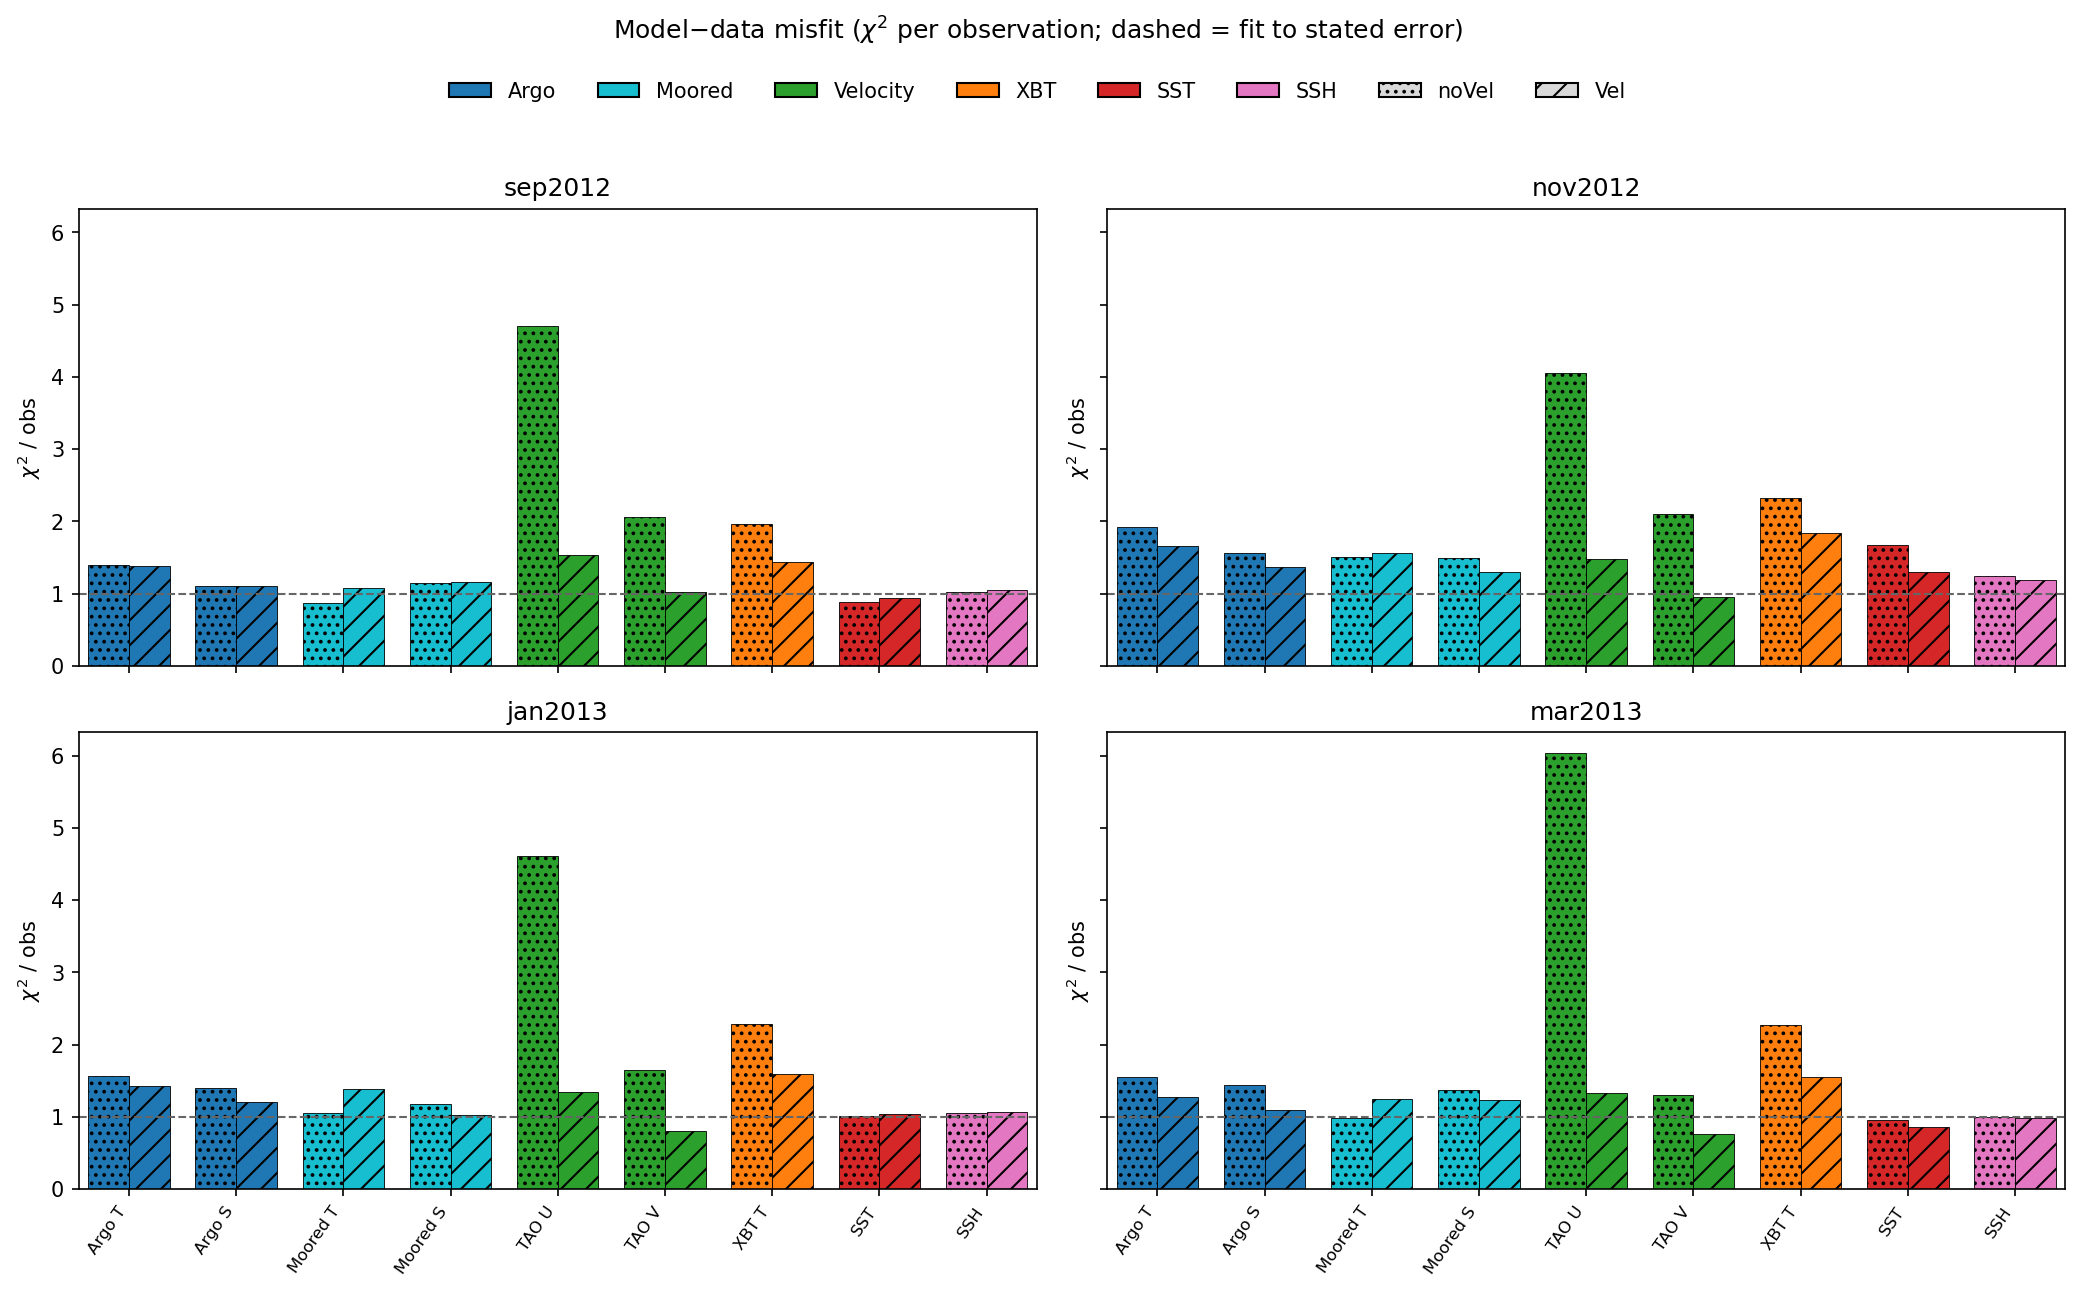
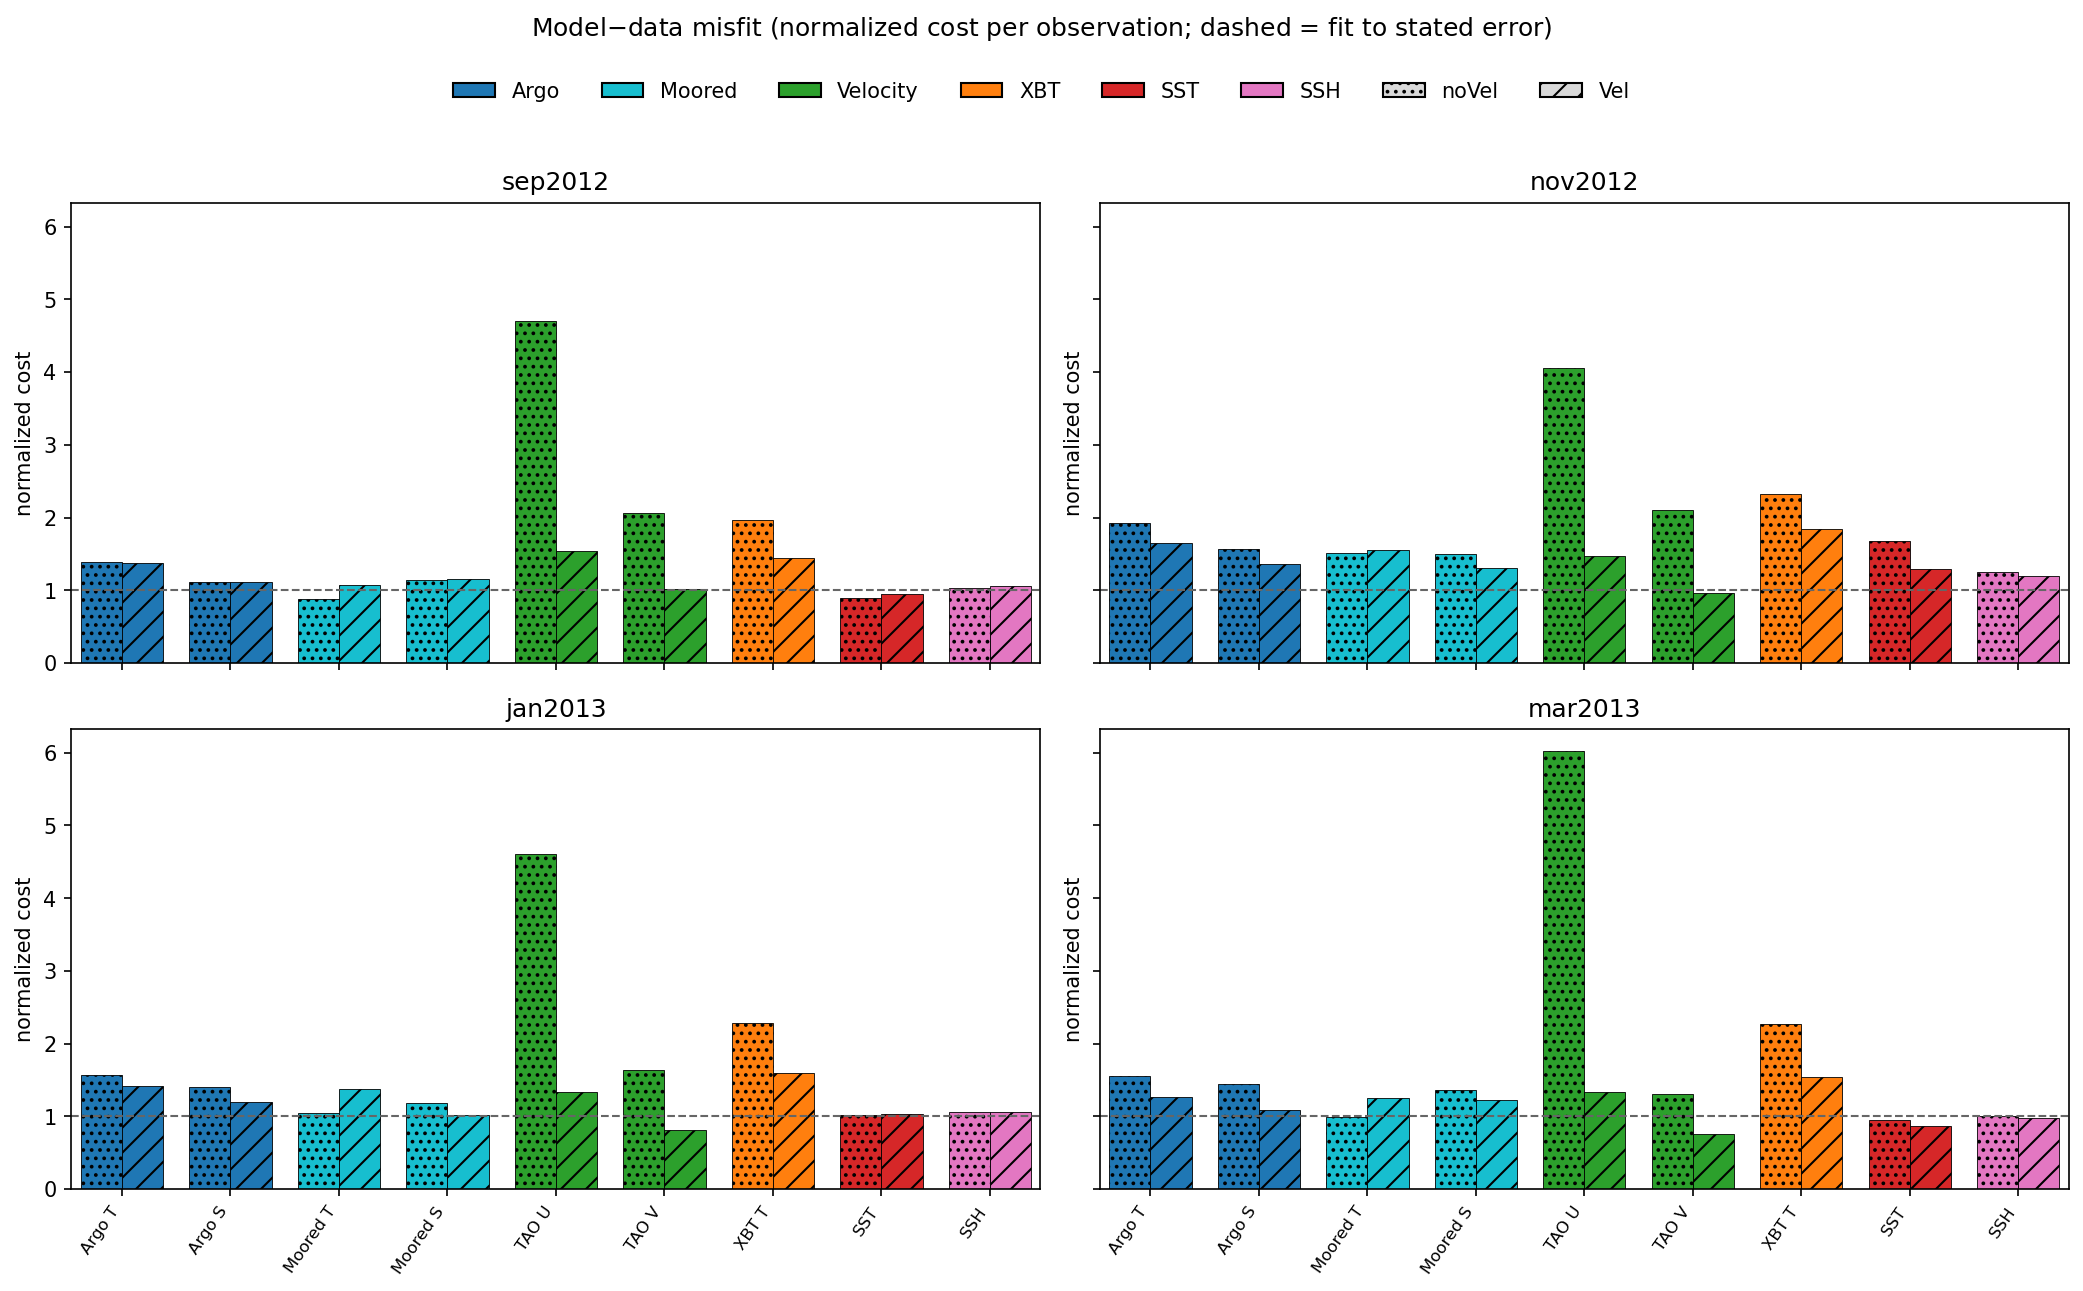
Relabel misfit figures: 'normalized cost' instead of chi^2 symbol

diff --git a/misfit_cost.py b/misfit_cost.py
@@ -318,7 +318,7 @@ def table(df=None):
     for win in [w for w in WINDOWS if w in set(g['window'])]:
         piv = (g[g['window'] == win].pivot_table(index='cell', columns='solution',
                values='chi2', observed=True).reindex(columns=PLOT_ROLES))
-        print(f'\n=== {win}  (chi^2 / obs; 1 = fit to stated error) ===')
+        print(f'\n=== {win}  (normalized cost; 1 = fit to stated error) ===')
         print(piv.to_string(float_format=lambda v: f'{v:6.2f}'))
     out = f'{tiw.CACHE}/misfit_table.csv'
     _grouped(df).to_csv(out, index=False)
@@ -344,7 +344,7 @@ def plot(df=None, out=FIG):
                    hatch=HATCH[role], edgecolor='k', linewidth=0.4)
         ax.axhline(1.0, ls='--', c='0.4', lw=1)
         ax.set_title(win)
-        ax.set_ylabel(r'$\chi^2$ / obs')
+        ax.set_ylabel('normalized cost')
         ax.set_xticks(x)
         ax.set_xticklabels(cells, rotation=55, ha='right', fontsize=8)
         ax.margins(x=0.01)
@@ -356,7 +356,7 @@ def plot(df=None, out=FIG):
     sol = [Patch(facecolor='0.85', edgecolor='k', hatch=HATCH[r], label=r) for r in PLOT_ROLES]
     fig.legend(handles=grp + sol, ncol=10, loc='upper center', frameon=False,
                bbox_to_anchor=(0.5, 1.03))
-    fig.suptitle(r'Model$-$data misfit ($\chi^2$ per observation; dashed = fit to stated error)',
+    fig.suptitle('Model$-$data misfit (normalized cost per observation; dashed = fit to stated error)',
                  y=1.07)
     fig.tight_layout()
     os.makedirs(os.path.dirname(out), exist_ok=True)
